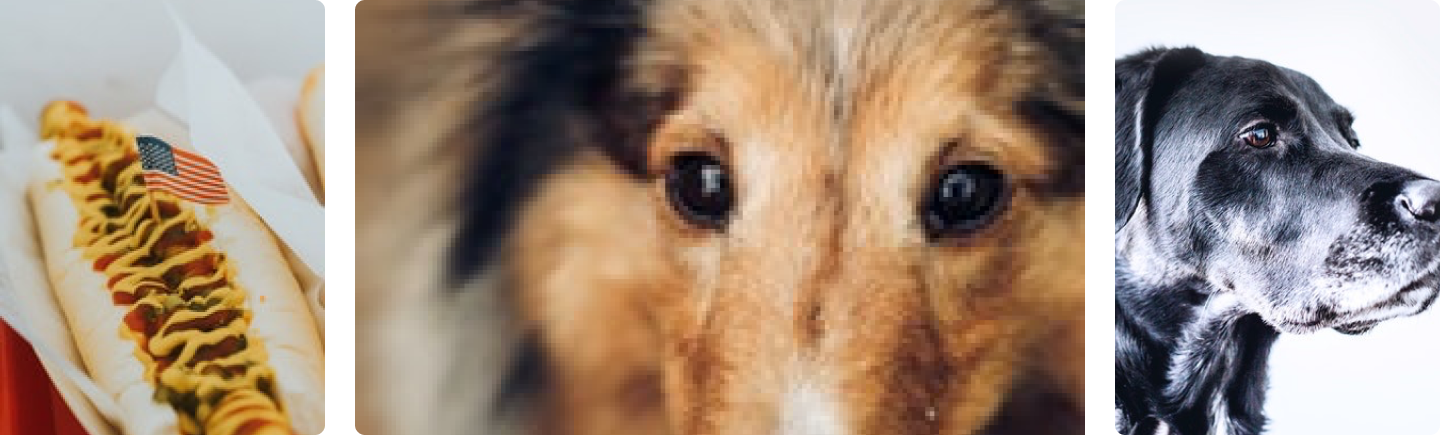
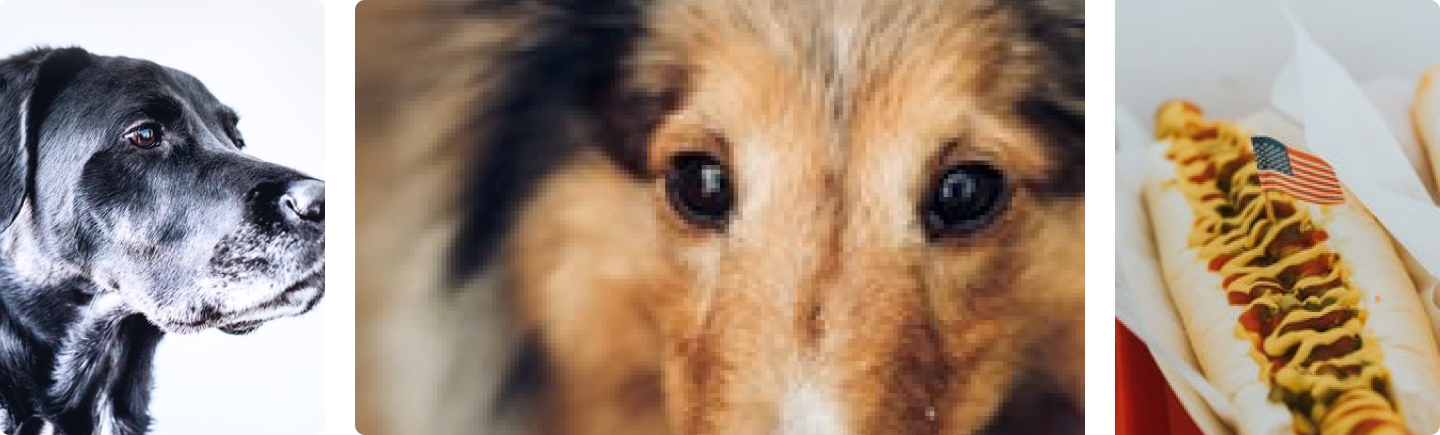
caurosel- happier

diff --git a/pet-lovers-fe/src/components/body/gallery/gallery-carousel/GalleryCarousel.tsx b/pet-lovers-fe/src/components/body/gallery/gallery-carousel/GalleryCarousel.tsx
@@ -6,10 +6,8 @@ import { Image } from "antd";
 import { useGalleryCarousel } from "./useGalleryCarousel";
 import "slick-carousel/slick/slick.css";
 import "slick-carousel/slick/slick-theme.css";
-import Slider from "react-slick";
 import { arrowLeft, arrowRight } from "../../../../assets/images";
 import { images } from "./constants/carouselImages";
-import { carouselSettings } from "./constants/carouselSettings";
 
 export const GalleryCarousel: FC = () => {
   const CustomPrevArrow = (props: any) => {
@@ -39,20 +37,25 @@ export const GalleryCarousel: FC = () => {
       />
     );
   };
-  const { sliderRef, goToPrevSlide, goToNextSlide } = useGalleryCarousel();
+
+  const { currentSlide, nextSlide, prevSlide } = useGalleryCarousel();
 
   return (
-    <div>
-      <Slider {...carouselSettings} ref={sliderRef}>
+    <div className="carousel-container">
+      <div
+        className="carousel"
+        style={{ transform: `translateX(-${currentSlide * 100}%)` }}
+      >
         {images.map((image) => (
-          <div key={image.id} className="carousel-image-container">
-            <img src={image.src} />
+          <div key={image.id} className="slide">
+            <img src={image.src}></img>
           </div>
         ))}
-      </Slider>
+      </div>
+
       <div className="arrow-container">
-        <CustomPrevArrow onClick={goToPrevSlide} />
-        <CustomNextArrow onClick={goToNextSlide} />
+        <CustomPrevArrow onClick={prevSlide}></CustomPrevArrow>
+        <CustomNextArrow onClick={nextSlide}></CustomNextArrow>
       </div>
     </div>
   );

diff --git a/pet-lovers-fe/src/components/body/gallery/gallery-carousel/GalleryCarousel.less b/pet-lovers-fe/src/components/body/gallery/gallery-carousel/GalleryCarousel.less
@@ -3,24 +3,49 @@
     cursor: pointer;
 }
 
-.previous-arrow {
-    top: 92.5vh;
-}
-
-.slick-list{
-    padding: 0 !important;
-}
-
-
 .arrow-container {
     display: flex;
     justify-content: space-around;
     padding-left: 17vw;
     padding-right: 17vw;
+    margin-top: 12vh;
 }
-.slick-slide.slick-active.slick-center.slick-current {
-    width: 14% !important;
-}
-.slick-slider.slick-initialized{
-    height: 55vh;
-}
+
+.carousel-container {
+    position: relative;
+    height: 100vh;
+    overflow: hidden;
+  }
+
+  .carousel {
+    display: flex;
+    transition: transform 0.5s ease;
+  }
+
+  .slide {
+    flex: 0 0 100%;
+    height: 100%;
+    display: flex;
+    align-items: center;
+    justify-content: center;
+    font-size: 24px;
+    color: white;
+  }
+
+  .prev-button,
+  .next-button {
+    position: absolute;
+    top: 50%;
+    transform: translateY(-50%);
+    width: 100px;
+    height: 40px;
+    font-size: 16px;
+  }
+
+  .prev-button {
+    left: 10px;
+  }
+
+  .next-button {
+    right: 10px;
+  }

diff --git a/pet-lovers-fe/src/components/body/gallery/gallery-carousel/useGalleryCarousel.ts b/pet-lovers-fe/src/components/body/gallery/gallery-carousel/useGalleryCarousel.ts
@@ -1,25 +1,21 @@
-import { useRef } from "react";
-
-import Slider from "react-slick";
+import { useState } from "react";
+import { images } from "./constants/carouselImages";
 
 export const useGalleryCarousel = () => {
-  const sliderRef = useRef<Slider>(null);
-
-  const goToPrevSlide = () => {
-    if (sliderRef.current) {
-      sliderRef.current.slickPrev();
-    }
+  const [currentSlide, setCurrentSlide] = useState(0);
+  const nextSlide = () => {
+    setCurrentSlide((prevSlide) => (prevSlide + 1) % images.length);
   };
 
-  const goToNextSlide = () => {
-    if (sliderRef.current) {
-      sliderRef.current.slickNext();
-    }
+  const prevSlide = () => {
+    setCurrentSlide(
+      (prevSlide) => (prevSlide - 1 + images.length) % images.length
+    );
   };
 
   return {
-    sliderRef,
-    goToPrevSlide,
-    goToNextSlide,
+    currentSlide,
+    nextSlide,
+    prevSlide,
   };
 };

diff --git a/pet-lovers-fe/src/components/body/gallery/gallery-images/constants/galleryImages.ts b/pet-lovers-fe/src/components/body/gallery/gallery-images/constants/galleryImages.ts
@@ -27,27 +27,27 @@ export const galleryImages = [
     alt: "cat3",
   },
   {
-    id: 3,
+    id: 4,
     src: cat4,
     alt: "cat4",
   },
   {
-    id: 3,
+    id: 5,
     src: cat5,
     alt: "cat5",
   },
   {
-    id: 3,
+    id: 6,
     src: cat6,
     alt: "cat6",
   },
   {
-    id: 3,
+    id: 7,
     src: cat7,
     alt: "cat7",
   },
   {
-    id: 3,
+    id: 8,
     src: cat8,
     alt: "cat8",
   },

diff --git a/pet-lovers-fe/src/components/body/gallery/gallery-carousel/constants/carouselImages.ts b/pet-lovers-fe/src/components/body/gallery/gallery-carousel/constants/carouselImages.ts
@@ -2,19 +2,19 @@ import { carousel1, carousel2, carousel3 } from "../../../../../assets/images";
 
 export const images = [
   {
-    id: 1,
+    id: 0,
     src: carousel1,
 
     alt: "Big dog",
   },
   {
-    id: 2,
+    id: 1,
     src: carousel2,
-    alt: "Lessie",
+    alt: "Hot dog",
   },
   {
-    id: 3,
+    id: 2,
     src: carousel3,
-    alt: "Hot dog",
+    alt: "Lessie",
   },
 ];
